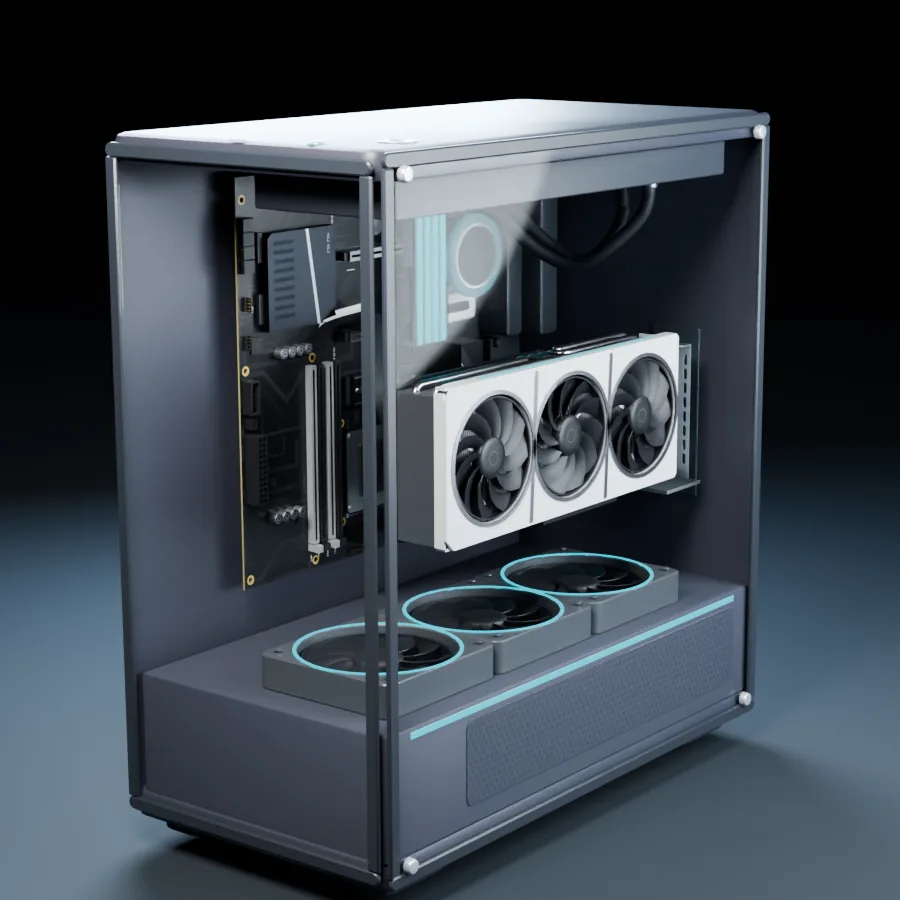
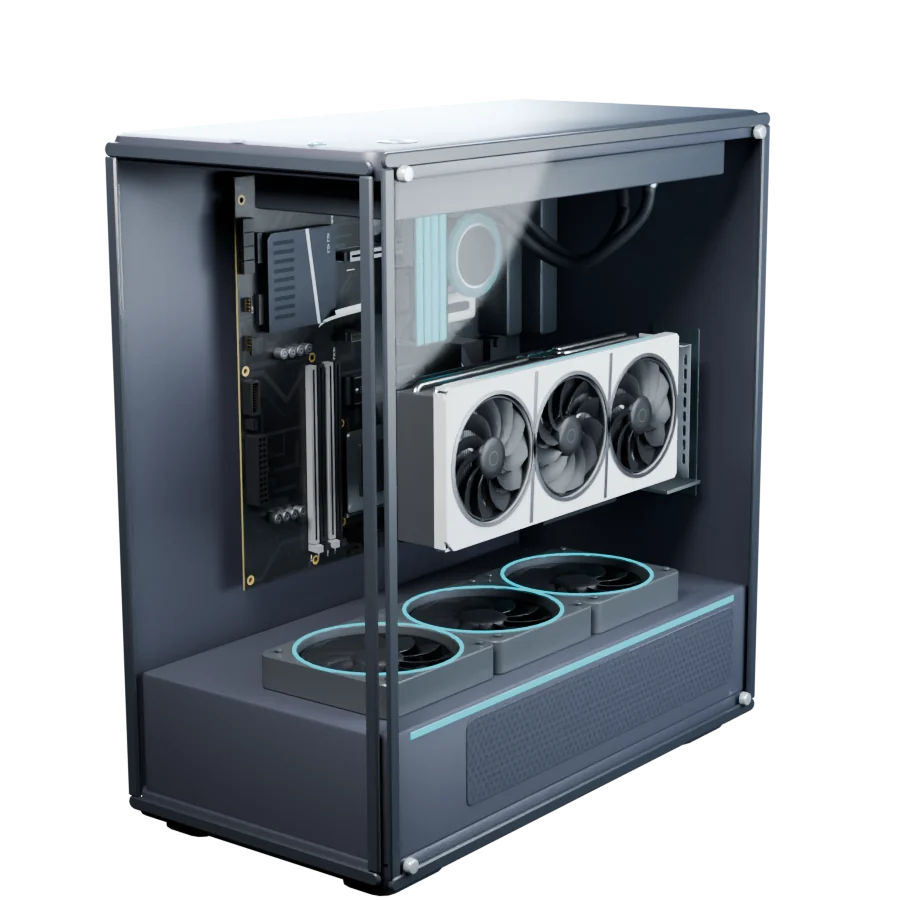
feat(dev): transparent CORE-01, extended scroll and real camera approach

diff --git a/script.js b/script.js
@@ -1,70 +1,117 @@
-/* CORE-01 DEV: three REAL Blender Cycles frames from one master and camera.
-   Visual sequence only: this is not yet interactive 3D or a camera through the glass.
-   HTML picture and SVG fallback work without JS, on Save-Data and reduced motion. */
+/* DEV-003 | CORE-01 real Cycles asset sequence, transparent backgrounds and scroll choreography.
+   Narrative camera views are real Blender renders. Browser cross-fades are not a continuous 3D scene.
+   Contact links and fallback poster remain usable without scripts or motion support. */
 (() => {
   const sequence = document.querySelector("[data-boot-sequence]");
   const art = document.querySelector("[data-core-art]");
   const label = document.querySelector("[data-boot-label]");
-  const charging = art?.querySelector('[data-boot-frame="charging"]');
-  const powered = art?.querySelector('[data-boot-frame="powered"]');
-  if (!sequence || !art || !label || !charging || !powered) return;
+  const meter = document.querySelector("[data-boot-meter-label]");
+  if (!sequence || !art || !label || !meter) return;
 
+  const stages = Object.fromEntries(["charging", "powered", "button", "glass", "interior"].map(
+    name => [name, art.querySelector('[data-boot-frame="' + name + '"]')]
+  ));
+  if (Object.values(stages).some(image => !image)) return;
   const reducedMotion = window.matchMedia("(prefers-reduced-motion: reduce)");
   const saveData = navigator.connection?.saveData === true;
-  const clamp01 = (value) => Math.max(0, Math.min(1, value));
-  const smooth = (from, to, value) => {
-    const t = clamp01((value - from) / (to - from));
+  const clamp01 = n => Math.max(0, Math.min(1, n));
+  const smooth = (from, to, n) => {
+    const t = clamp01((n - from) / (to - from));
     return t * t * (3 - 2 * t);
   };
 
   const hardware = document.getElementById("servicios");
-  const pose = sequence.dataset.cameraPose;
-  if (pose && pose === hardware?.dataset.cameraPose) {
-    art.dataset.handoffPose = pose;
-    art.dataset.handoffPart = hardware.dataset.focusPart || "";
+  if (sequence.dataset.cameraPose === hardware?.dataset.cameraPose) {
+    art.dataset.handoffPose = hardware.dataset.cameraPose;
+    art.dataset.handoffPart = hardware.dataset.focusPart;
   }
 
   if (reducedMotion.matches || saveData || !window.requestAnimationFrame) {
     label.textContent = "STATIC / ACCESSIBLE";
+    meter.textContent = "SIN ANIMACIÓN";
+    sequence.dataset.bootPhase = "static";
     return;
   }
-  let failed = false;
-  const staticFallback = () => {
-    failed = true;
-    art.dataset.bootFallback = "static";
-    art.style.setProperty("--boot-charging", "0");
-    art.style.setProperty("--boot-powered", "0");
-    label.textContent = "STATIC / READY";
-  };
-  charging.addEventListener("error", staticFallback);
-  powered.addEventListener("error", staticFallback);
 
-  let frameRequested = false;
-  let lastProgress = -1;
+  const failedStages = new Set();
+  Object.entries(stages).forEach(([name, image]) => image.addEventListener("error", () => {
+    failedStages.add(name);
+    previousProgress = -1;
+    if (name === "charging" || name === "powered") {
+      art.dataset.bootFallback = "static";
+      label.textContent = "STATIC / READY";
+    }
+    requestRender();
+  }));
+
+  let pending = false;
+  let previousProgress = -1;
+  const setValue = (name, amount) =>
+    sequence.style.setProperty(name, amount.toFixed(4));
   const render = () => {
-    frameRequested = false;
-    if (failed) return;
-    const bounds = sequence.getBoundingClientRect();
-    const pinned = window.matchMedia("(min-width: 1001px)").matches;
-    const travel = pinned
-      ? Math.max(1, bounds.height - window.innerHeight)
-      : Math.max(1, bounds.height - window.innerHeight * 0.52);
-    const progress = clamp01(-bounds.top / travel);
-    if (Math.abs(progress - lastProgress) < 0.001) return;
-    lastProgress = progress;
-    const chargingAmount = smooth(0.12, 0.52, progress) * (1 - smooth(0.52, 0.86, progress));
-    const poweredAmount = smooth(0.52, 0.9, progress);
-    art.style.setProperty("--boot-charging", chargingAmount.toFixed(4));
-    art.style.setProperty("--boot-powered", poweredAmount.toFixed(4));
+    pending = false;
+    const box = sequence.getBoundingClientRect();
+    const distance = Math.max(1, box.height - window.innerHeight);
+    const progress = clamp01(-box.top / distance);
+    if (Math.abs(progress - previousProgress) < 0.0005) return;
+    previousProgress = progress;
+
+    const hasWide = !failedStages.has("powered");
+    const charge = failedStages.has("charging") ? 0 :
+      smooth(0.14, 0.47, progress) * (1 - smooth(0.51, 0.70, progress));
+    const powered = hasWide ? smooth(0.51, 0.70, progress) : 0;
+    const button = failedStages.has("button") ? 0 : smooth(0.72, 0.765, progress) *
+      (1 - smooth(0.795, 0.835, progress));
+    const glass = failedStages.has("glass") ? 0 : smooth(0.795, 0.835, progress) *
+      (1 - (failedStages.has("interior") ? 0 : smooth(0.895, 0.94, progress)));
+    const interior = failedStages.has("interior") ? 0 : smooth(0.895, 0.94, progress);
+
+    setValue("--boot-wide-opacity", hasWide ? 1 - smooth(0.72, 0.765, progress) : 1);
+    setValue("--boot-charging", charge);
+    setValue("--boot-powered", powered);
+    setValue("--boot-button", button);
+    setValue("--boot-glass", glass);
+    setValue("--boot-interior", interior);
+    setValue("--boot-zoom", 1 + 0.07 * smooth(0.08, 0.48, progress) +
+      0.13 * smooth(0.66, 0.83, progress) + 0.15 * smooth(0.83, 0.99, progress));
+    setValue("--boot-shift-x", smooth(0.72, 0.97, progress));
+    setValue("--boot-shift-y", smooth(0.72, 0.97, progress));
+    setValue("--boot-copy-opacity", 1 - smooth(0.65, 0.76, progress));
+    setValue("--boot-meta-opacity", 1 - smooth(0.70, 0.79, progress));
+    const energy = smooth(0.13, 0.72, progress);
+    setValue("--boot-charge", energy);
+
+    let phase, caption;
+    if (progress < 0.14) {
+      phase = "standby";
+      caption = "STANDBY / 00";
+    } else if (progress < 0.70) {
+      phase = "charging";
+      caption = "BOOTING / 01";
+    } else if (progress < 0.80) {
+      phase = "power";
+      caption = "POWER / 02";
+    } else if (progress < 0.91) {
+      phase = "glass";
+      caption = "GLASS / 03";
+    } else {
+      phase = "interior";
+      caption = "HARDWARE / 04";
+    }
+    sequence.dataset.bootPhase = phase;
+    label.textContent = caption;
+    meter.textContent = progress < 0.72
+      ? "ENERGÍA / " + Math.round(energy * 100) + "%"
+      : progress < 0.80 ? "ACERCANDO / BOTÓN"
+      : progress < 0.91 ? "RUTA / VIDRIO"
+      : "INTERIOR / PLACA";
     art.dataset.bootProgress = progress.toFixed(3);
-    label.textContent = progress < 0.15 ? "STANDBY / 00"
-      : progress < 0.85 ? "BOOTING / 01" : "READY / 02";
   };
-  const requestRender = () => {
-    if (frameRequested) return;
-    frameRequested = true;
-    requestAnimationFrame(render);
-  };
+  function requestRender() {
+    if (pending) return;
+    pending = true;
+    window.requestAnimationFrame(render);
+  }
   render();
   window.addEventListener("scroll", requestRender, { passive: true });
   window.addEventListener("resize", requestRender, { passive: true });

diff --git a/styles.css b/styles.css
@@ -49,7 +49,7 @@ h1 em{font-style:normal;color:#a3b1c0}.lead{max-width:28rem;color:#b7c0cd;font-s
 
 
 /* CP-003.4 DEV — Real CORE-01 Cycles images: three aligned frames, same camera. */
-.core-art-cycles{--boot-charging:0;--boot-powered:0;aspect-ratio:1/1;width:116%;margin-left:-8%;overflow:hidden;-webkit-mask-image:radial-gradient(ellipse 80% 83% at 51% 52%,#000 59%,transparent 100%);mask-image:radial-gradient(ellipse 80% 83% at 51% 52%,#000 59%,transparent 100%)}
+.core-art-cycles{aspect-ratio:1/1;width:116%;margin-left:-8%;overflow:hidden;-webkit-mask-image:radial-gradient(ellipse 80% 83% at 51% 52%,#000 59%,transparent 100%);mask-image:radial-gradient(ellipse 80% 83% at 51% 52%,#000 59%,transparent 100%)}
 .core-art-cycles .core-poster-frame{display:block;width:100%;height:100%}
 .core-art-cycles img.core-poster,.core-art-cycles img.core-stage{display:block;width:100%;height:100%;margin:0;object-fit:cover;object-position:center;filter:none}
 .core-art-cycles img.core-stage{position:absolute;inset:0;pointer-events:none}
@@ -58,3 +58,53 @@ h1 em{font-style:normal;color:#a3b1c0}.lead{max-width:28rem;color:#b7c0cd;font-s
 .core-preview-note{color:#8399aa;font:400 .63rem/1.5 var(--mono);margin:.55rem 0 0}
 @media(max-width:1000px){.core-art-cycles{width:100%;margin-left:0}}
 @media(prefers-reduced-motion:reduce){.core-art-cycles img.core-stage{display:none}}
+
+/* CP-003.5 DEV-003 — True transparent Cycles + long BOOT scroll + camera-path preview. */
+.boot-sequence{height:440svh;--boot-copy-opacity:1;--boot-meta-opacity:1;--boot-wide-opacity:1;--boot-charging:0;--boot-powered:0;--boot-button:0;--boot-glass:0;--boot-interior:0;--boot-zoom:1;--boot-shift-x:0;--boot-shift-y:0;--boot-charge:0}
+.boot-sequence>.hero{position:sticky;top:0;height:100svh;min-height:0;overflow:hidden}
+.boot-sequence .hero-content{opacity:var(--boot-copy-opacity);transform:translate3d(0,calc((1 - var(--boot-copy-opacity)) * -18px),0);will-change:opacity}
+.boot-sequence .core-art-cycles{background:transparent;-webkit-mask-image:none;mask-image:none;overflow:hidden;transform:translate3d(calc(var(--boot-shift-x) * -27vw),calc(var(--boot-shift-y) * -2vh),0) scale(var(--boot-zoom));transform-origin:50% 45%;will-change:transform}
+.boot-sequence .core-art-cycles .core-poster-frame{opacity:var(--boot-wide-opacity)}
+.boot-sequence .core-art-cycles .core-stage-charging{opacity:calc(var(--boot-wide-opacity) * var(--boot-charging))}
+.boot-sequence .core-art-cycles .core-stage-powered{opacity:calc(var(--boot-wide-opacity) * var(--boot-powered))}
+.boot-sequence .core-art-cycles .core-stage-button{opacity:var(--boot-button)}
+.boot-sequence .core-art-cycles .core-stage-glass{opacity:var(--boot-glass)}
+.boot-sequence .core-art-cycles .core-stage-interior{opacity:var(--boot-interior)}
+.boot-sequence .core-art-cycles .core-stage-glass,.boot-sequence .core-art-cycles .core-stage-interior{-webkit-mask-image:radial-gradient(ellipse 54% 54% at 50% 50%,#000 63%,transparent 94%);mask-image:radial-gradient(ellipse 54% 54% at 50% 50%,#000 63%,transparent 94%)}
+.boot-sequence .core figcaption,.boot-sequence .core-preview-note{opacity:var(--boot-meta-opacity)}
+.boot-sequence .core-preview-note{max-width:32rem}
+.boot-meter{display:flex;align-items:center;gap:.85rem;margin:.7rem 0 0;opacity:.91;font:400 .58rem/1.5 var(--mono);color:#94b8c3;letter-spacing:.05em}
+.boot-meter-label{min-width:8.4rem;white-space:nowrap}
+.boot-meter-track{position:relative;display:block;flex:1;max-width:270px;height:2px;background:#a5bbc347;overflow:hidden}
+.boot-meter-fill{position:absolute;inset:0;transform-origin:left center;transform:scaleX(var(--boot-charge));background:#00d9e8;box-shadow:0 0 10px #00d9e8}
+.boot-sequence[data-boot-phase="interior"] .boot-meter-fill{background:#8a9ffa}
+@media(max-width:1000px){
+ .boot-sequence{height:330svh}
+ .boot-sequence>.hero{position:sticky;top:0;height:100svh;min-height:0}
+ .boot-sequence .core-art-cycles{width:100%;margin-left:0;transform:translate3d(calc(var(--boot-shift-x) * -4vw),calc(var(--boot-shift-y) * -17vh),0) scale(var(--boot-zoom))}
+}
+@media(max-width:680px){
+ .boot-sequence>.hero{display:flex;flex-direction:column;justify-content:center;gap:0;padding:6rem var(--pad) 2rem}
+ .boot-sequence .hero-content h1{font-size:clamp(2.65rem,9vw,3.3rem);margin-bottom:1rem}
+ .boot-sequence .hero-content .eyebrow{margin-bottom:1.25rem}
+ .boot-sequence .hero-content .lead{font-size:.97rem;line-height:1.52}
+ .boot-sequence .hero-content .actions{margin:1.2rem 0;gap:1.3rem}
+ .boot-sequence .hero-content .location{margin:1rem 0 .4rem}
+ .boot-sequence .core{width:100%;max-width:460px;margin:0 auto}
+ .boot-sequence .core-art-cycles{width:min(100%,430px);margin:0 auto}
+ .boot-sequence .core figcaption{padding-top:.5rem}
+ .boot-sequence .core-preview-note{font-size:.52rem;margin:.3rem 0 0}
+ .boot-sequence .boot-meter{margin:.3rem 0}
+ .boot-sequence .scroll{bottom:.4rem}
+}
+@media(max-width:680px) and (max-height:730px){
+ .boot-sequence .hero-content .lead,.boot-sequence .hero-content .location,.boot-sequence .core-preview-note{display:none}
+ .boot-sequence .core-art-cycles{width:min(100%,57svh)}
+}
+@media(prefers-reduced-motion:reduce){
+ .boot-sequence{height:auto;min-height:0}
+ .boot-sequence>.hero{position:relative;height:auto;min-height:100svh;overflow:visible}
+ .boot-sequence .hero-content,.boot-sequence .core-art-cycles{transform:none!important;opacity:1!important}
+ .boot-sequence .core-art-cycles .core-stage{display:none!important}
+ .boot-meter{display:none}
+}

diff --git a/index.html b/index.html
@@ -21,10 +21,10 @@
   <nav aria-label="Principal">
     <a href="#servicios">Servicios</a><a href="#portfolio">Proyectos</a><a class="nav-contact" href="#contacto">Contacto <span aria-hidden="true">↗</span></a>
   </nav>
-  <span class="dev">DEV / CORE-01 C6.2</span>
+  <span class="dev">DEV / CORE-01 C6.3</span>
 </header>
 <main id="contenido">
-  <div class="boot-sequence" data-boot-sequence data-camera-pose="three-quarter">
+  <div class="boot-sequence" data-boot-sequence data-camera-pose="three-quarter" data-boot-chapter="power-button-glass-core">
   <section class="hero" id="inicio" aria-labelledby="hero-title">
     <div class="hero-content">
       <p class="eyebrow"><span class="signal"></span> 01 / SYSTEM BOOT</p>
@@ -44,15 +44,22 @@
         </picture>
         <img class="core-stage core-stage-charging" data-boot-frame="charging" src="./assets/boot/core01-charging.webp" alt="" aria-hidden="true" width="900" height="900" loading="eager" fetchpriority="low" decoding="async">
         <img class="core-stage core-stage-powered" data-boot-frame="powered" src="./assets/boot/core01-powered.webp" alt="" aria-hidden="true" width="900" height="900" loading="eager" fetchpriority="low" decoding="async">
+        <img class="core-stage core-stage-button" data-boot-frame="button" src="./assets/boot/core01-button.webp" alt="" aria-hidden="true" width="900" height="900" loading="lazy" decoding="async">
+        <img class="core-stage core-stage-glass" data-boot-frame="glass" src="./assets/boot/core01-glass.webp" alt="" aria-hidden="true" width="900" height="900" loading="lazy" decoding="async">
+        <img class="core-stage core-stage-interior" data-boot-frame="interior" src="./assets/boot/core01-interior.webp" alt="" aria-hidden="true" width="900" height="900" loading="lazy" decoding="async">
       </div>
       <figcaption><span>CORE—01 / BLENDER · DEV</span><span data-boot-label aria-hidden="true">STANDBY / 00</span></figcaption>
-      <p class="core-preview-note">Vista previa con renders reales de Blender Cycles. La cámara 3D interactiva sigue en desarrollo.</p>
+      <div class="boot-meter" data-boot-meter aria-hidden="true">
+        <span class="boot-meter-label" data-boot-meter-label>ENERGÍA / 0%</span>
+        <span class="boot-meter-track"><span class="boot-meter-fill"></span></span>
+      </div>
+      <p class="core-preview-note">Cámara Blender: botón → vidrio → placa madre. Previsualización cinematográfica; el 3D continuo sigue en desarrollo.</p>
     </figure>
     <a class="scroll" href="#servicios">DESLIZÁ PARA DESCUBRIR <span aria-hidden="true">↓</span></a>
   </section>
   </div>
 
-  <section id="servicios" class="section section-light" aria-labelledby="service-title" data-camera-pose="three-quarter" data-focus-part="gpu">
+  <section id="servicios" class="section section-light" aria-labelledby="service-title" data-camera-pose="three-quarter" data-focus-part="motherboard">
     <div class="section-label"><span>02 / HARDWARE</span><span>EL PUNTO DE PARTIDA</span></div>
     <div class="split">
       <h2 id="service-title">Entender el sistema.<br><span>Resolver el problema.</span></h2>
